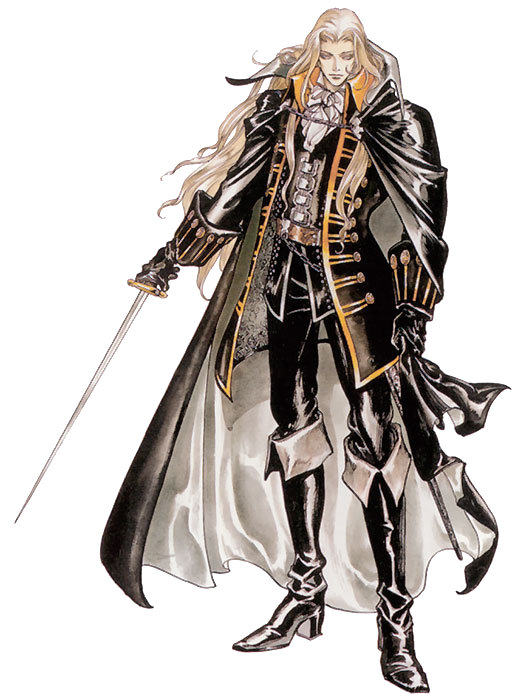
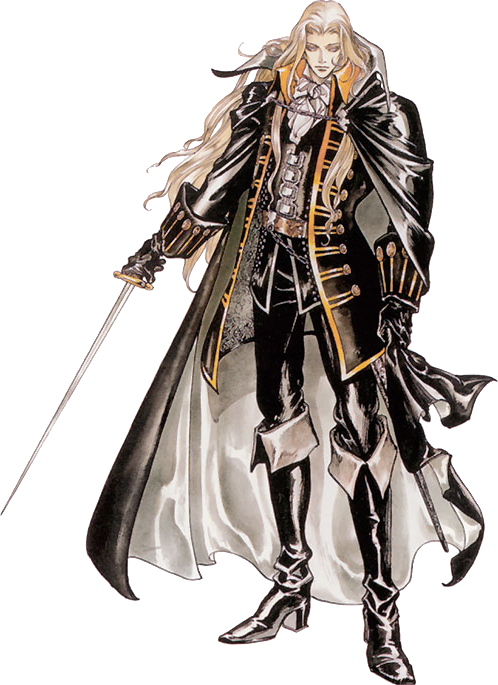
Change shade of red + resize images + align headings and paragraphs + spacing changes

diff --git a/index.html b/index.html
@@ -22,7 +22,7 @@
         <h2>Bio</h2>
         <p>Alucard is the dhampir (half-human, half-vampire) son of Dracula, the antagonist of the Castlevania series, and his mother Lisa.</p>
         
-        <p>Lisa created medicine for those who suffered from the epidemic. Due to the witch trials going on in Europe at the time, Lisa was apprehended and executed. Alucard was present shortly before Lisa's death, but his mother requested that he allowed the mob to kill her, under the belief that it would ultimately save their souls from eternal damnation.</p>
+        <p>Lisa created medicine for those who suffered from the epidemic. Due to the witch trials in Europe at the time, Lisa was apprehended and executed. Alucard was present shortly before Lisa's death, but his mother requested that he allowed the mob to kill her, under the belief that it would ultimately save their souls from eternal damnation.</p>
 
         <p>Upon learning about his wife's death, Dracula vowed revenge. In 1476, he began his war upon humanity. However, his mother's death and admonition not to hate humanity caused Alucard to take up arms against his father.</p>
       </section>
@@ -37,9 +37,10 @@
             <img id="face" src="images/face.png" alt="A young androgynous man with long blond hair, wearing a white cravate over a black and gold garb, wrapped in a black cape.">
             <figcaption>Alucard's face</figcaption>
           </figure>
-          <figure></figure>
+          <figure>
             <img id="weapons" src="images/weapons.png" alt="A young blond man holding up a red shield with a griffin engravement in front of him and swinging a sword at his back.">
             <figcaption>Alucard wielding his sword and shield</figcaption>
+          </figure>
           <figure>
             <img id="transform" src="images/transform.png" alt="A young blond man with a bat on his shoulder and a wolf to his side, his cape turning into large bat wings and his pants into wolf legs.">
             <figcaption>Alucard as he transforms</figcaption>
@@ -67,11 +68,13 @@
           <p><span class="character">Alucard</span>: Indeed. But you must always remember that the only thing necessary for evil to triumph is for good men to do nothing.</p>
         </blockquote>
       </section>
-      <p>If you'd like to know more about this amazing character, check out his page on the <a href="https://castlevania.fandom.com/wiki/Alucard" target="_blank" id="tribute-link">Castlevania Wiki</a>.</p>
-      <figure>
-        <img id="cover" src="images/alucard-cover.jpg" alt="Alucard staring in the distance while holding up his sword towards the sky. Dracula's ominous castle is in the background against the full moon.">
-        <figcaption>Castlevania: Symphony of the Night game box art featuring Alucard</figcaption>
-      </figure>
+      <section>
+        <p>If you'd like to know more about this amazing character, check out his page on the <a href="https://castlevania.fandom.com/wiki/Alucard" target="_blank" id="tribute-link">Castlevania Wiki</a>.</p>
+        <figure>
+          <img id="cover" src="images/alucard-cover.jpg" alt="Alucard staring in the distance while holding up his sword towards the sky. Dracula's ominous castle is in the background against the full moon.">
+          <figcaption>Castlevania: Symphony of the Night game box art featuring Alucard</figcaption>
+        </figure>
+      </section>
       <hr />
     </body>
     <footer>

diff --git a/styles.css b/styles.css
@@ -3,15 +3,30 @@ html {
   height: 100vh;
   margin: 0;
   font-family: VT323, sans-serif;
-  font-size: 16px;
+  font-size: 22px;
   background-color: rgb(8, 9, 10);
   color: hsl(0, 0%, 88%)
+}
+
+body {
+  display: block;
+  margin: 0 auto;
+  width: 40%;
+  max-width: 600px;
+}
+
+body a {
+  color: #df0000;
+}
+
+section {
+  margin-bottom: 2em;
 }
   
 h1 {
   text-align: center;
   font-size: 46px;
-  margin: 1.2em 0 0.7em;
+  margin: 0.8em 0;
   color: rgb(225, 196, 180)
 }
 
@@ -21,7 +36,6 @@ h2 {
 }
 
 h2, .character {
-
   color: rgb(250, 180, 0)
 }
 
@@ -29,10 +43,12 @@ h1, h2 {
   font-family: "Press Start 2P", serif;
 }
 
-section {
-  margin-bottom: 3em;
+#art {
+  margin-top: 1em;
+  display: flex;
+  flex-direction: column;
+  gap: 2.4em;
 }
-
 
 figure {
   display: flex;
@@ -40,40 +56,45 @@ figure {
   margin: 0 auto;
   flex-direction: column;
   align-items: center;
-  gap: 0.6em;
+  gap: 1.2em;
+}
+
+img {
+  width: 100%;
+}
+
+figcaption {
+  text-align: center;
+}
+
+p, figcaption {
+  font-size: 22px;
 }
 
 #img-div {
-  margin-bottom: 5rem;
+  margin-bottom: 2em;
 }
 
 #concept {
   display: block;
-  margin-left: -5vw;
-  max-width: 530px;
-  aspect-ratio: 53 / 70;
-}
-
-#art {
-  display: flex;
-  flex-direction: column;
-  gap: 1.5em;
+  margin-left: -3vw;
+  max-width: 498px;
+  aspect-ratio: 498 / 685;
 }
 
 #face {
-  margin-top: 1.5em;
-  max-width: 530px;
-  aspect-ratio: 53 / 70;
+  max-width: 486px;
+  aspect-ratio: 486 / 683;
 }
 
 #weapons {
-  max-width: 665px;
-  aspect-ratio: 133 / 140;
+  max-width: 648px;
+  aspect-ratio: 648 / 684;
 }
 
 #transform {
-  max-width: 640px;
-  aspect-ratio: 32 / 35;
+  max-width: 625px;
+  aspect-ratio: 625 / 682;
 }
 
 #cover {
@@ -81,41 +102,9 @@ figure {
   aspect-ratio: 5 / 7;
 }
 
-figcaption {
-  text-align: center;
-}
-
-body {
-  display: block;
-  margin: 0 auto;
-  width: 60%;
-  max-width: 700px;
-  min-width: 300px;
-}
-
-body a {
-  color: red;
-}
-
-p {
-  margin-left: 0.5em;
-}
-
-p, figcaption {
-  font-size: 22px;
-}
-
-hr {
-  margin: 3rem 0 0;
-}
-
-footer {
-  padding-bottom: 2em;
-}
-
 blockquote {
-  border-left: 3px solid red;
-  margin-left: 12px;
+  border-left: 3px solid #c00;
+  margin-left: 0;
   padding-left: 12px;
   margin-bottom: 2.5rem;
 }
@@ -128,4 +117,12 @@ blockquote:last-of-type {
   font-family: "Press Start 2P";
   font-size: 14px;
   vertical-align: -2px;
+}
+
+hr {
+  margin: 0;
+}
+
+footer {
+  padding-bottom: 2em;
 }
